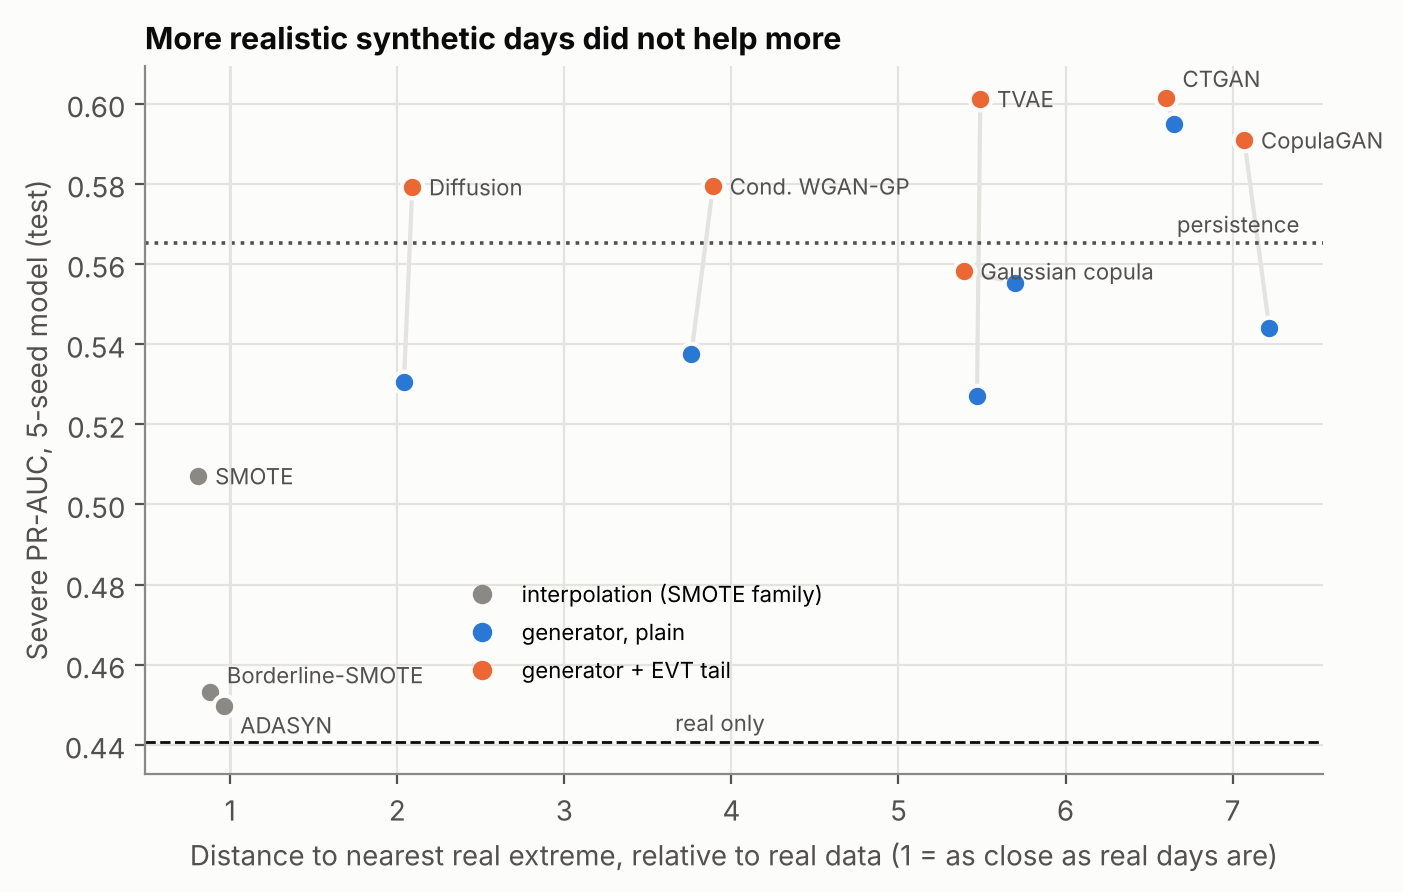
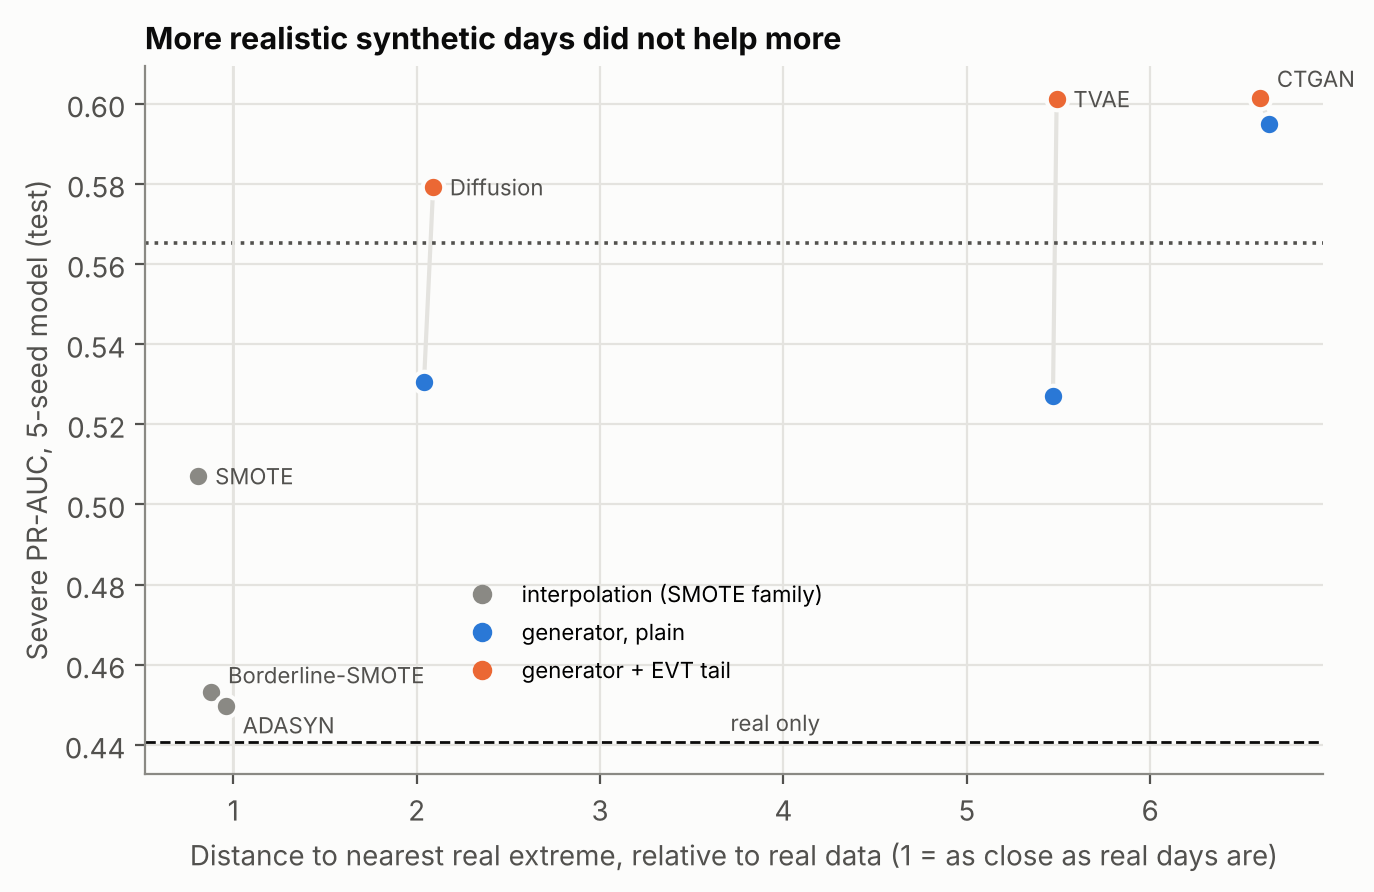
Remove Gaussian copula, CopulaGAN and conditional WGAN-GP from report
Claude-Session: https://claude.ai/code/session_01PvMEEJSo1p33wuBiQkVc1Z

diff --git a/report_final/main.tex b/report_final/main.tex
@@ -195,8 +195,8 @@ extreme days are rare: only about one day in a hundred at a given place, and the
 This project treats these days as the \emph{tail} of the temperature distribution, models that tail with Extreme
 Value Theory (EVT), and uses the model to decide which extra extreme days are added to the training data of a fixed
 classifier. The task is to predict whether tomorrow will be an extreme heat day at each of 529 ERA5-Land grid cells
-(1981--2025) using LightGBM. Ten ways of adding extreme days were compared over five training seeds, from SMOTE to
-GANs, a VAE and a conditional diffusion model, each with and without \emph{EVT tail focus}, which places 60\% of the
+(1981--2025) using LightGBM. Six ways of adding extreme days were compared over five training seeds: three SMOTE variants,
+a GAN (CTGAN), a VAE (TVAE) and a conditional diffusion model, the last three each with and without \emph{EVT tail focus}, which places 60\% of the
 added days in the most severe 20\% of the fitted tail. EVT tail focus improved every generator. CTGAN and TVAE with
 EVT tail focus raised the skill on the most severe days from 0.441 to 0.601 PR-AUC and beat a persistence baseline on
 overall skill. A control experiment showed that the EVT emphasis works even without a generator, while generators add
@@ -232,7 +232,6 @@ SMOTE & Synthetic Minority Over-sampling Technique \\ \hline
 SRTM & Shuttle Radar Topography Mission \\ \hline
 TVAE & Tabular Variational Autoencoder \\ \hline
 VAE & Variational Autoencoder \\ \hline
-WGAN-GP & Wasserstein GAN with Gradient Penalty \\ \hline
 \end{tabularx}
 \end{center}
 
@@ -358,9 +357,8 @@ A GAN~\cite{goodfellow2014gan} trains a generator $G$ against a discriminator $D
 \begin{equation}
   \min_G\max_D\; \mathbb{E}_{x}[\log D(x)]+\mathbb{E}_{z}[\log(1-D(G(z)))].
 \end{equation}
-WGAN-GP~\cite{gulrajani2017wgangp} stabilises training with a gradient penalty; CTGAN and TVAE~\cite{xu2019ctgan} adapt
-GANs and VAEs~\cite{kingma2014vae} to tables; a Gaussian copula~\cite{patki2016sdv} models column margins and their
-correlation. Diffusion models~\cite{ho2020ddpm} add noise $q(x_\tau|x_0)=\mathcal{N}(\sqrt{\bar\alpha_\tau}x_0,(1-\bar\alpha_\tau)I)$
+CTGAN and TVAE~\cite{xu2019ctgan} adapt
+GANs and VAEs~\cite{kingma2014vae} to tables. Diffusion models~\cite{ho2020ddpm} add noise $q(x_\tau|x_0)=\mathcal{N}(\sqrt{\bar\alpha_\tau}x_0,(1-\bar\alpha_\tau)I)$
 and learn to remove it:
 \begin{equation}
   \mathcal{L}=\mathbb{E}\left\lVert\epsilon-\epsilon_\theta(x_\tau,\tau,c)\right\rVert^2 .
@@ -522,8 +520,7 @@ never exceeds the maximum.
 \hline
 \textbf{Family} & \textbf{Methods} & \textbf{How EVT is applied}\\ \hline
 Interpolation & SMOTE, Borderline-SMOTE, ADASYN & -- \\ \hline
-Statistical, VAE, GAN & Gaussian copula, TVAE, CTGAN, CopulaGAN & Selection from a pool \\ \hline
-Conditional GAN & Conditional WGAN-GP (built here) & Severity requested \\ \hline
+VAE, GAN & TVAE, CTGAN & Selection from a pool \\ \hline
 Diffusion & Conditional diffusion model (built here) & Severity requested \\ \hline
 Control (no generator) & Copies or weights of real extremes & Selection / weighting \\ \hline
 \end{tabular}
@@ -556,9 +553,7 @@ today''.
 \begin{tabular}{|l|c|c|c|}
 \hline
 \textbf{Generator} & \makecell{\textbf{Raw rows}\\\textbf{breaking physics}} & \makecell{\textbf{Follows requested}\\\textbf{severity}} & \makecell{\textbf{Training}\\\textbf{time}} \\ \hline
-Gaussian copula & 12\% & -- & 2 min \\ \hline
-TVAE / CTGAN / CopulaGAN & 69--75\% & -- & 19--25 min \\ \hline
-Conditional WGAN-GP & 9\% & 0.25 & 3 min \\ \hline
+TVAE / CTGAN & 69--75\% & -- & 18--24 min \\ \hline
 Conditional diffusion & $\approx$0\% & 0.67 (real: 0.78) & 30 min \\ \hline
 \end{tabular}
 \end{table}
@@ -598,7 +593,7 @@ Persistence (no model) & 0.586 & 0.191 & 0.565 \\ \hline
 
 \begin{itemize}
   \item \textbf{EVT tail focus improved every generator} on average on all three scores (Figure~\ref{fig:evtgain}),
-        most consistently on heatwave starts; all six top methods on validation used it.
+        most consistently on heatwave starts; all three top methods on validation used it.
   \item \textbf{CTGAN and TVAE with EVT tail focus were best} on the most severe days (0.601 vs 0.441 for real data
         only), and beat persistence on overall skill (0.611 vs 0.586). The top EVT-tail methods are statistically close.
   \item \textbf{Interpolation helps little:} SMOTE gave a small gain; Borderline-SMOTE and ADASYN none.
@@ -699,7 +694,7 @@ Report and presentation & & & & & \gB & & \gB & \gB \\ \hline
 \end{table}
 
 \textbf{Outcomes:} a verified 45-year data set of seasonal heat extremes for 529 grid cells; an extreme value model of
-the heat tail; an EVT-guided conditional diffusion model and conditional WGAN-GP; a fair comparison of ten data
+the heat tail; an EVT-guided conditional diffusion model; a fair comparison of six data
 generation methods under a fixed classifier; and open, reproducible code that runs on free cloud resources:\\
 \url{https://github.com/Divyansh-jain2/Major_Technical_Project}
 
@@ -720,7 +715,6 @@ generation methods under a fixed classifier; and open, reproducible code that ru
 \bibitem{he2008adasyn} H. He, Y. Bai, E. A. Garcia and S. Li, \reflink{https://doi.org/10.1109/IJCNN.2008.4633969}{ADASYN: Adaptive synthetic sampling approach for imbalanced learning}, IEEE International Joint Conference on Neural Networks, 2008.
 \bibitem{elor2022smote} Y. Elor and H. Averbuch-Elor, \reflink{https://arxiv.org/abs/2201.08528}{To SMOTE, or not to SMOTE?}, arXiv:2201.08528, 2022.
 \bibitem{goodfellow2014gan} I. Goodfellow et al., \reflink{https://arxiv.org/abs/1406.2661}{Generative adversarial nets}, Advances in Neural Information Processing Systems, 2014.
-\bibitem{gulrajani2017wgangp} I. Gulrajani, F. Ahmed, M. Arjovsky, V. Dumoulin and A. Courville, \reflink{https://arxiv.org/abs/1704.00028}{Improved training of Wasserstein GANs}, Advances in Neural Information Processing Systems, 2017.
 \bibitem{xu2019ctgan} L. Xu, M. Skoularidou, A. Cuesta-Infante and K. Veeramachaneni, \reflink{https://arxiv.org/abs/1907.00503}{Modeling tabular data using conditional GAN}, Advances in Neural Information Processing Systems, 2019.
 \bibitem{kingma2014vae} D. P. Kingma and M. Welling, \reflink{https://arxiv.org/abs/1312.6114}{Auto-encoding variational Bayes}, International Conference on Learning Representations, 2014.
 \bibitem{patki2016sdv} N. Patki, R. Wedge and K. Veeramachaneni, \reflink{https://doi.org/10.1109/DSAA.2016.49}{The Synthetic Data Vault}, IEEE International Conference on Data Science and Advanced Analytics, 2016.

diff --git a/report/make_figures.py b/report/make_figures.py
@@ -97,10 +97,9 @@ save(fig, "fig_generator_quality.png")
 d = pd.read_csv(os.path.join(HERE, "data", "step12_per_seed.csv"))
 mean = d.groupby("method")[["pr_auc", "onset", "severe"]].mean()
 PERS = {"pr_auc": 0.5864, "onset": 0.1907, "severe": 0.5651}
-G = [("gaussian_copula", "Gaussian copula"), ("tvae", "TVAE"), ("ctgan", "CTGAN"),
-     ("copulagan", "CopulaGAN"), ("cwgan", "Cond. WGAN-GP"), ("diffusion", "Diffusion")]
+G = [("tvae", "TVAE"), ("ctgan", "CTGAN"), ("diffusion", "Diffusion")]
 BASEL = [("none", "Real only"), ("smote", "SMOTE"), ("borderline_smote", "Borderline\nSMOTE"), ("adasyn", "ADASYN")]
-fig, axs = plt.subplots(3, 1, figsize=(11, 10), sharex=True)
+fig, axs = plt.subplots(3, 1, figsize=(9.5, 9.5), sharex=True)
 for ax, (s, lab) in zip(axs, [("severe", "Severe PR-AUC (10% most severe extremes)"),
                               ("pr_auc", "PR-AUC (all days)"), ("onset", "Onset PR-AUC (heatwave starts)")]):
     pos, ticks = 0, []
@@ -137,7 +136,7 @@ fig.tight_layout()
 save(fig, "fig_step12_by_seed.png")
 
 # ---------------------------------------------------------------- EVT effect per generator
-fig, axs = plt.subplots(1, 3, figsize=(11, 3.3), sharey=True)
+fig, axs = plt.subplots(1, 3, figsize=(11, 2.4), sharey=True)
 names = [nm for _, nm in G]
 for ax, (s, lab) in zip(axs, [("pr_auc", "PR-AUC"), ("onset", "Onset PR-AUC"), ("severe", "Severe PR-AUC")]):
     diffs, wins = [], []
@@ -164,11 +163,8 @@ save(fig, "fig_evt_gain.png")
 # ---------------------------------------------------------------- realism vs usefulness (Step 12 ensembles)
 q = pd.DataFrame([
     ("SMOTE", "interp", 0.81, 0.5071), ("Borderline-SMOTE", "interp", 0.88, 0.4533), ("ADASYN", "interp", 0.96, 0.4498),
-    ("Gaussian copula", "plain", 5.70, 0.5553), ("Gaussian copula", "tail", 5.39, 0.5582),
     ("TVAE", "plain", 5.47, 0.5271), ("TVAE", "tail", 5.49, 0.6012),
     ("CTGAN", "plain", 6.65, 0.5950), ("CTGAN", "tail", 6.60, 0.6014),
-    ("CopulaGAN", "plain", 7.22, 0.5439), ("CopulaGAN", "tail", 7.07, 0.5909),
-    ("Cond. WGAN-GP", "plain", 3.76, 0.5375), ("Cond. WGAN-GP", "tail", 3.89, 0.5794),
     ("Diffusion", "plain", 2.04, 0.5305), ("Diffusion", "tail", 2.09, 0.5792)],
     columns=["gen", "kind", "close", "severe"])
 fig, ax = plt.subplots(figsize=(7.6, 4.6))
@@ -199,9 +195,9 @@ print("figures written to", FIG)
 
 # ---------------------------------------------------------------- Step 13: EVT emphasis with and without a generator
 d13 = pd.read_csv(os.path.join(HERE, "data", "step13_per_seed.csv"))
-both = pd.concat([d[d.method.isin(["none", "ctgan_tail", "tvae_tail", "gaussian_copula_tail", "diffusion_tail"])], d13])
+both = pd.concat([d[d.method.isin(["none", "ctgan_tail", "tvae_tail", "diffusion_tail"])], d13])
 M13 = [("none", "Real\nonly", MUTED), ("real_dup_plain", "Random\ncopies", AQUA), ("real_dup_tail", "EVT-tail\ncopies", AQUA),
-       ("real_weight_tail", "EVT-tail\nweights", AQUA), ("gaussian_copula_tail", "Gaussian\ncopula", ORANGE),
+       ("real_weight_tail", "EVT-tail\nweights", AQUA),
        ("diffusion_tail", "Diffusion", ORANGE), ("ctgan_tail", "CTGAN", ORANGE), ("tvae_tail", "TVAE", ORANGE)]
 fig, axs = plt.subplots(3, 1, figsize=(9.5, 9), sharex=True)
 for ax, (s, lab) in zip(axs, [("severe", "Severe PR-AUC (10% most severe extremes)"), ("pr_auc", "PR-AUC (all days)"),
@@ -217,7 +213,7 @@ for ax, (s, lab) in zip(axs, [("severe", "Severe PR-AUC (10% most severe extreme
 axs[-1].set_xticks(range(len(M13)), [m[1] for m in M13], fontsize=9)
 axs[0].annotate("persistence", (3.4, PERS["severe"]), xytext=(0, 4), textcoords="offset points", fontsize=8, color=INK2, ha="right")
 axs[0].text(1.5, 0.385, "no generator", ha="center", fontsize=8.5, color=INK2)
-axs[0].text(5.5, 0.385, "generator + EVT tail focus", ha="center", fontsize=8.5, color=INK2)
+axs[0].text(5.0, 0.385, "generator + EVT tail focus", ha="center", fontsize=8.5, color=INK2)
 axs[0].legend(handles=[Line2D([], [], marker="o", ls="", color=MUTED, label="real data only"),
                        Line2D([], [], marker="o", ls="", color=AQUA, label="extra real extremes (copies or weights)"),
                        Line2D([], [], marker="o", ls="", color=ORANGE, label="extra synthetic extremes")],
